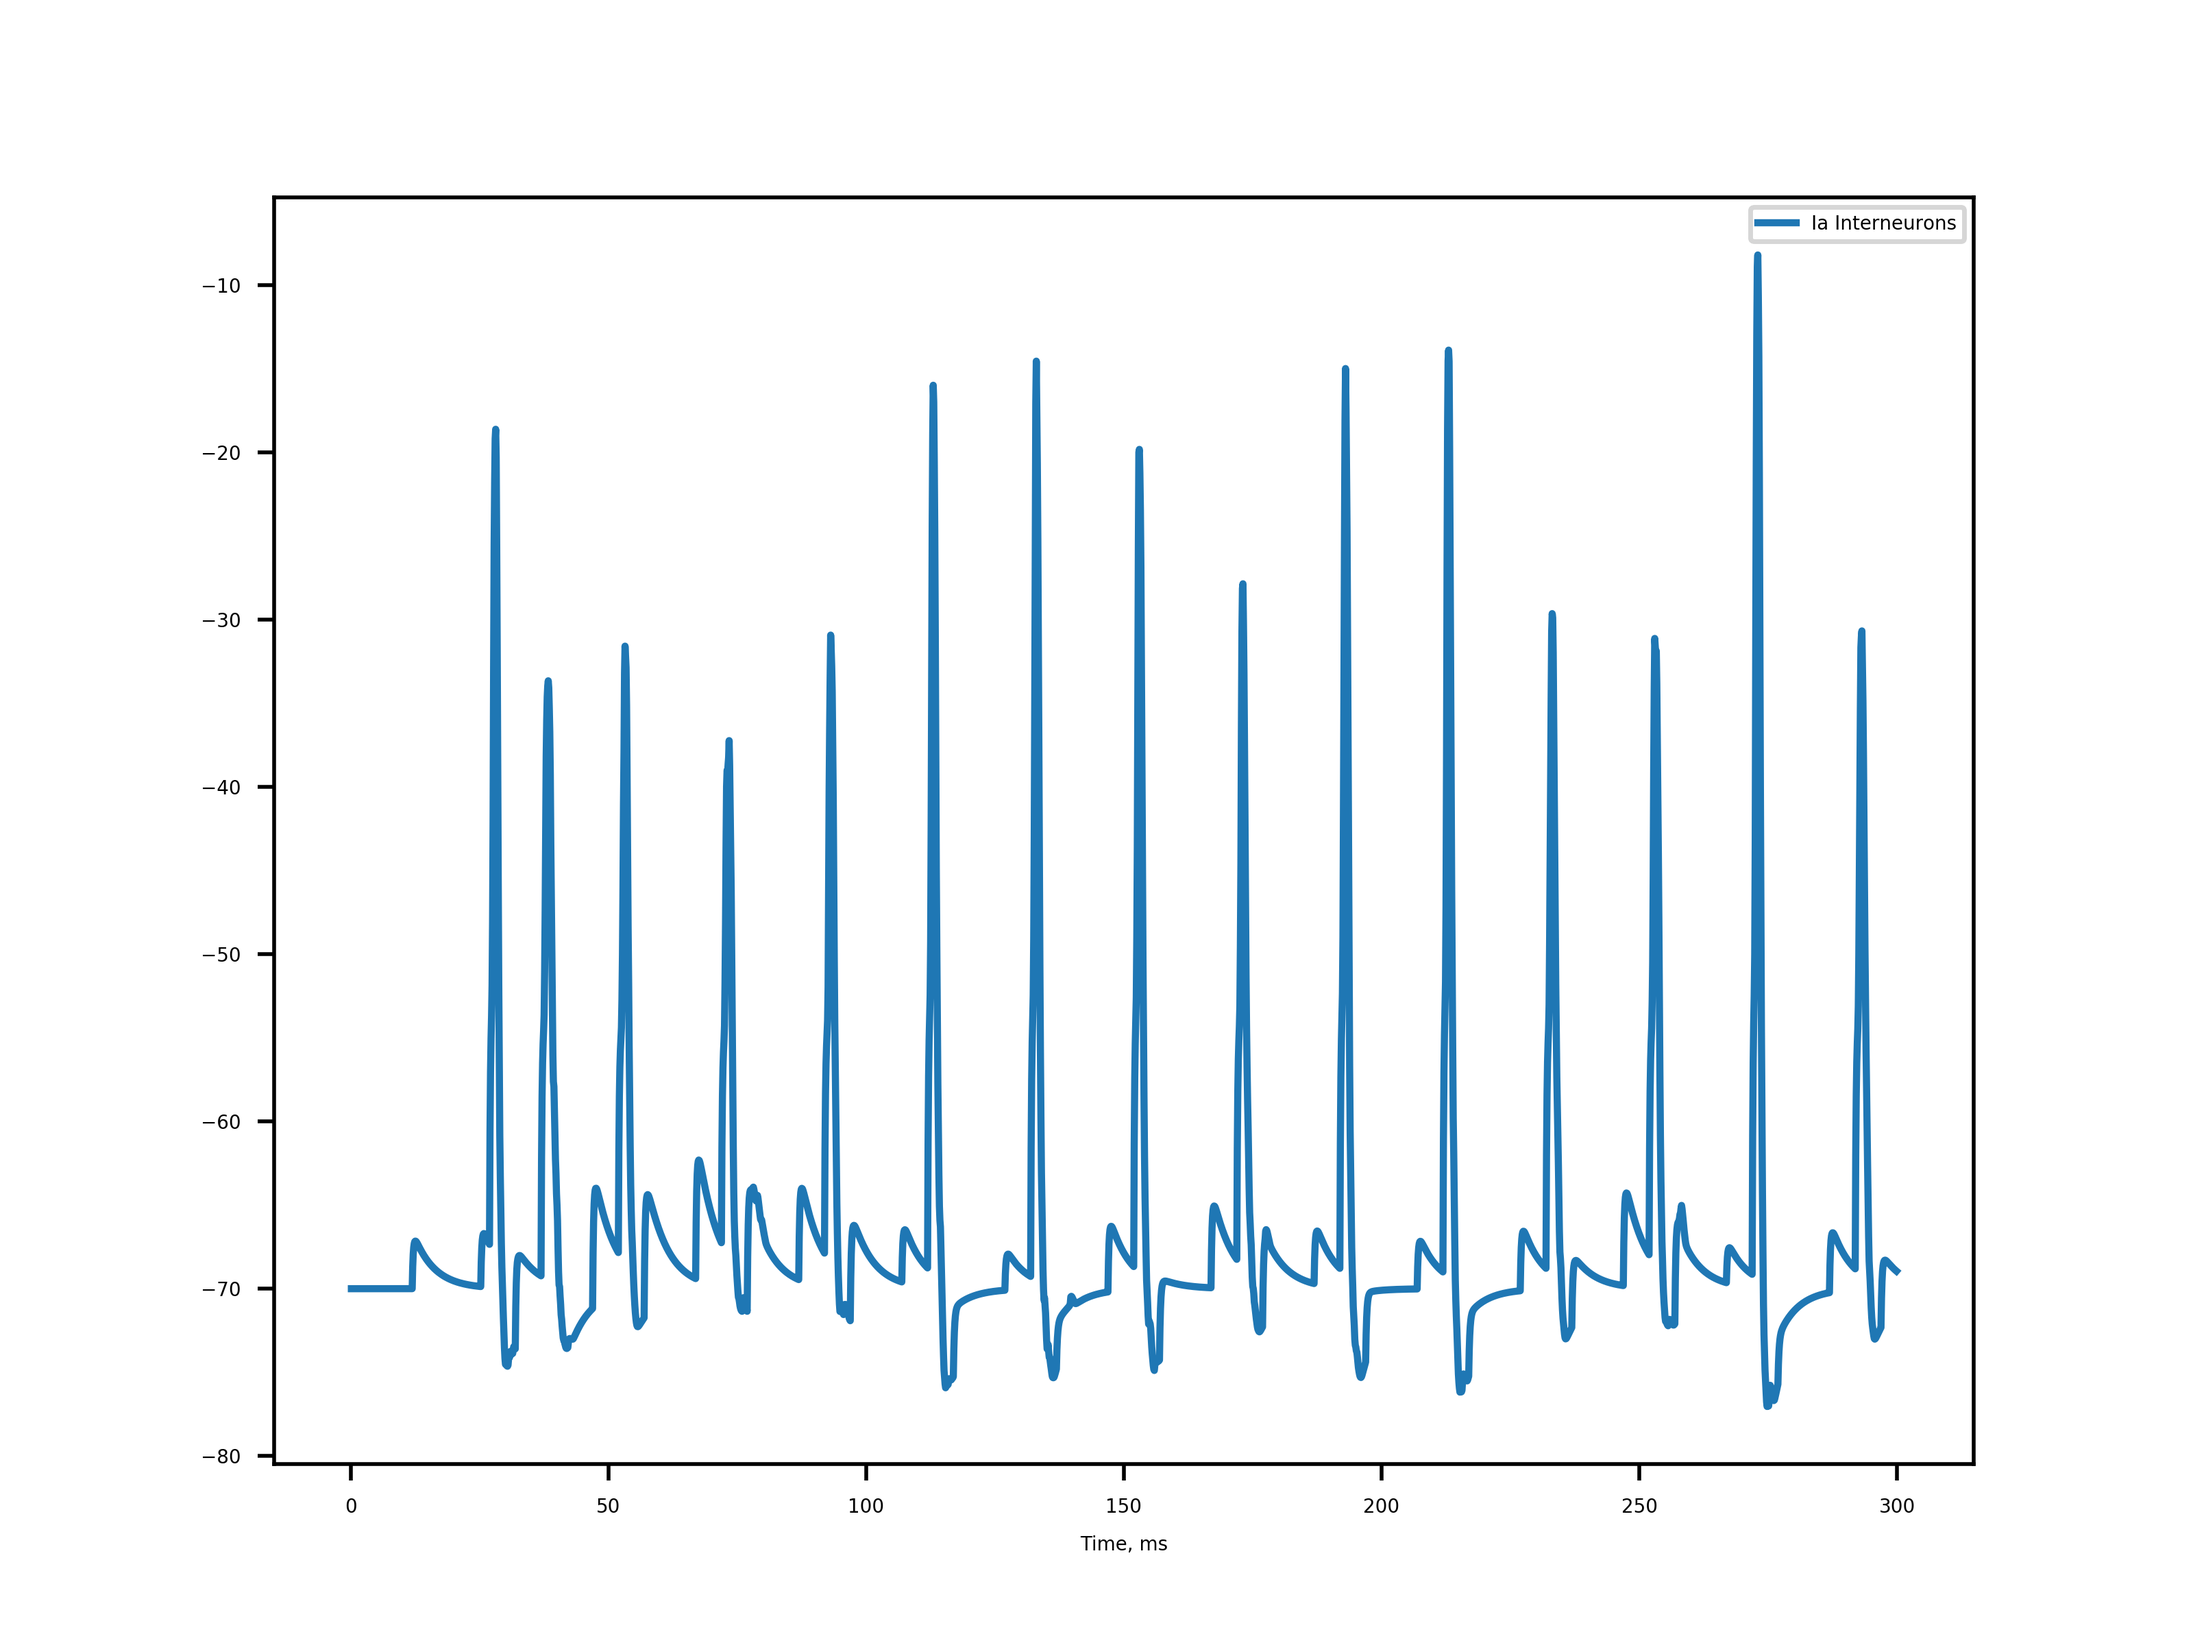
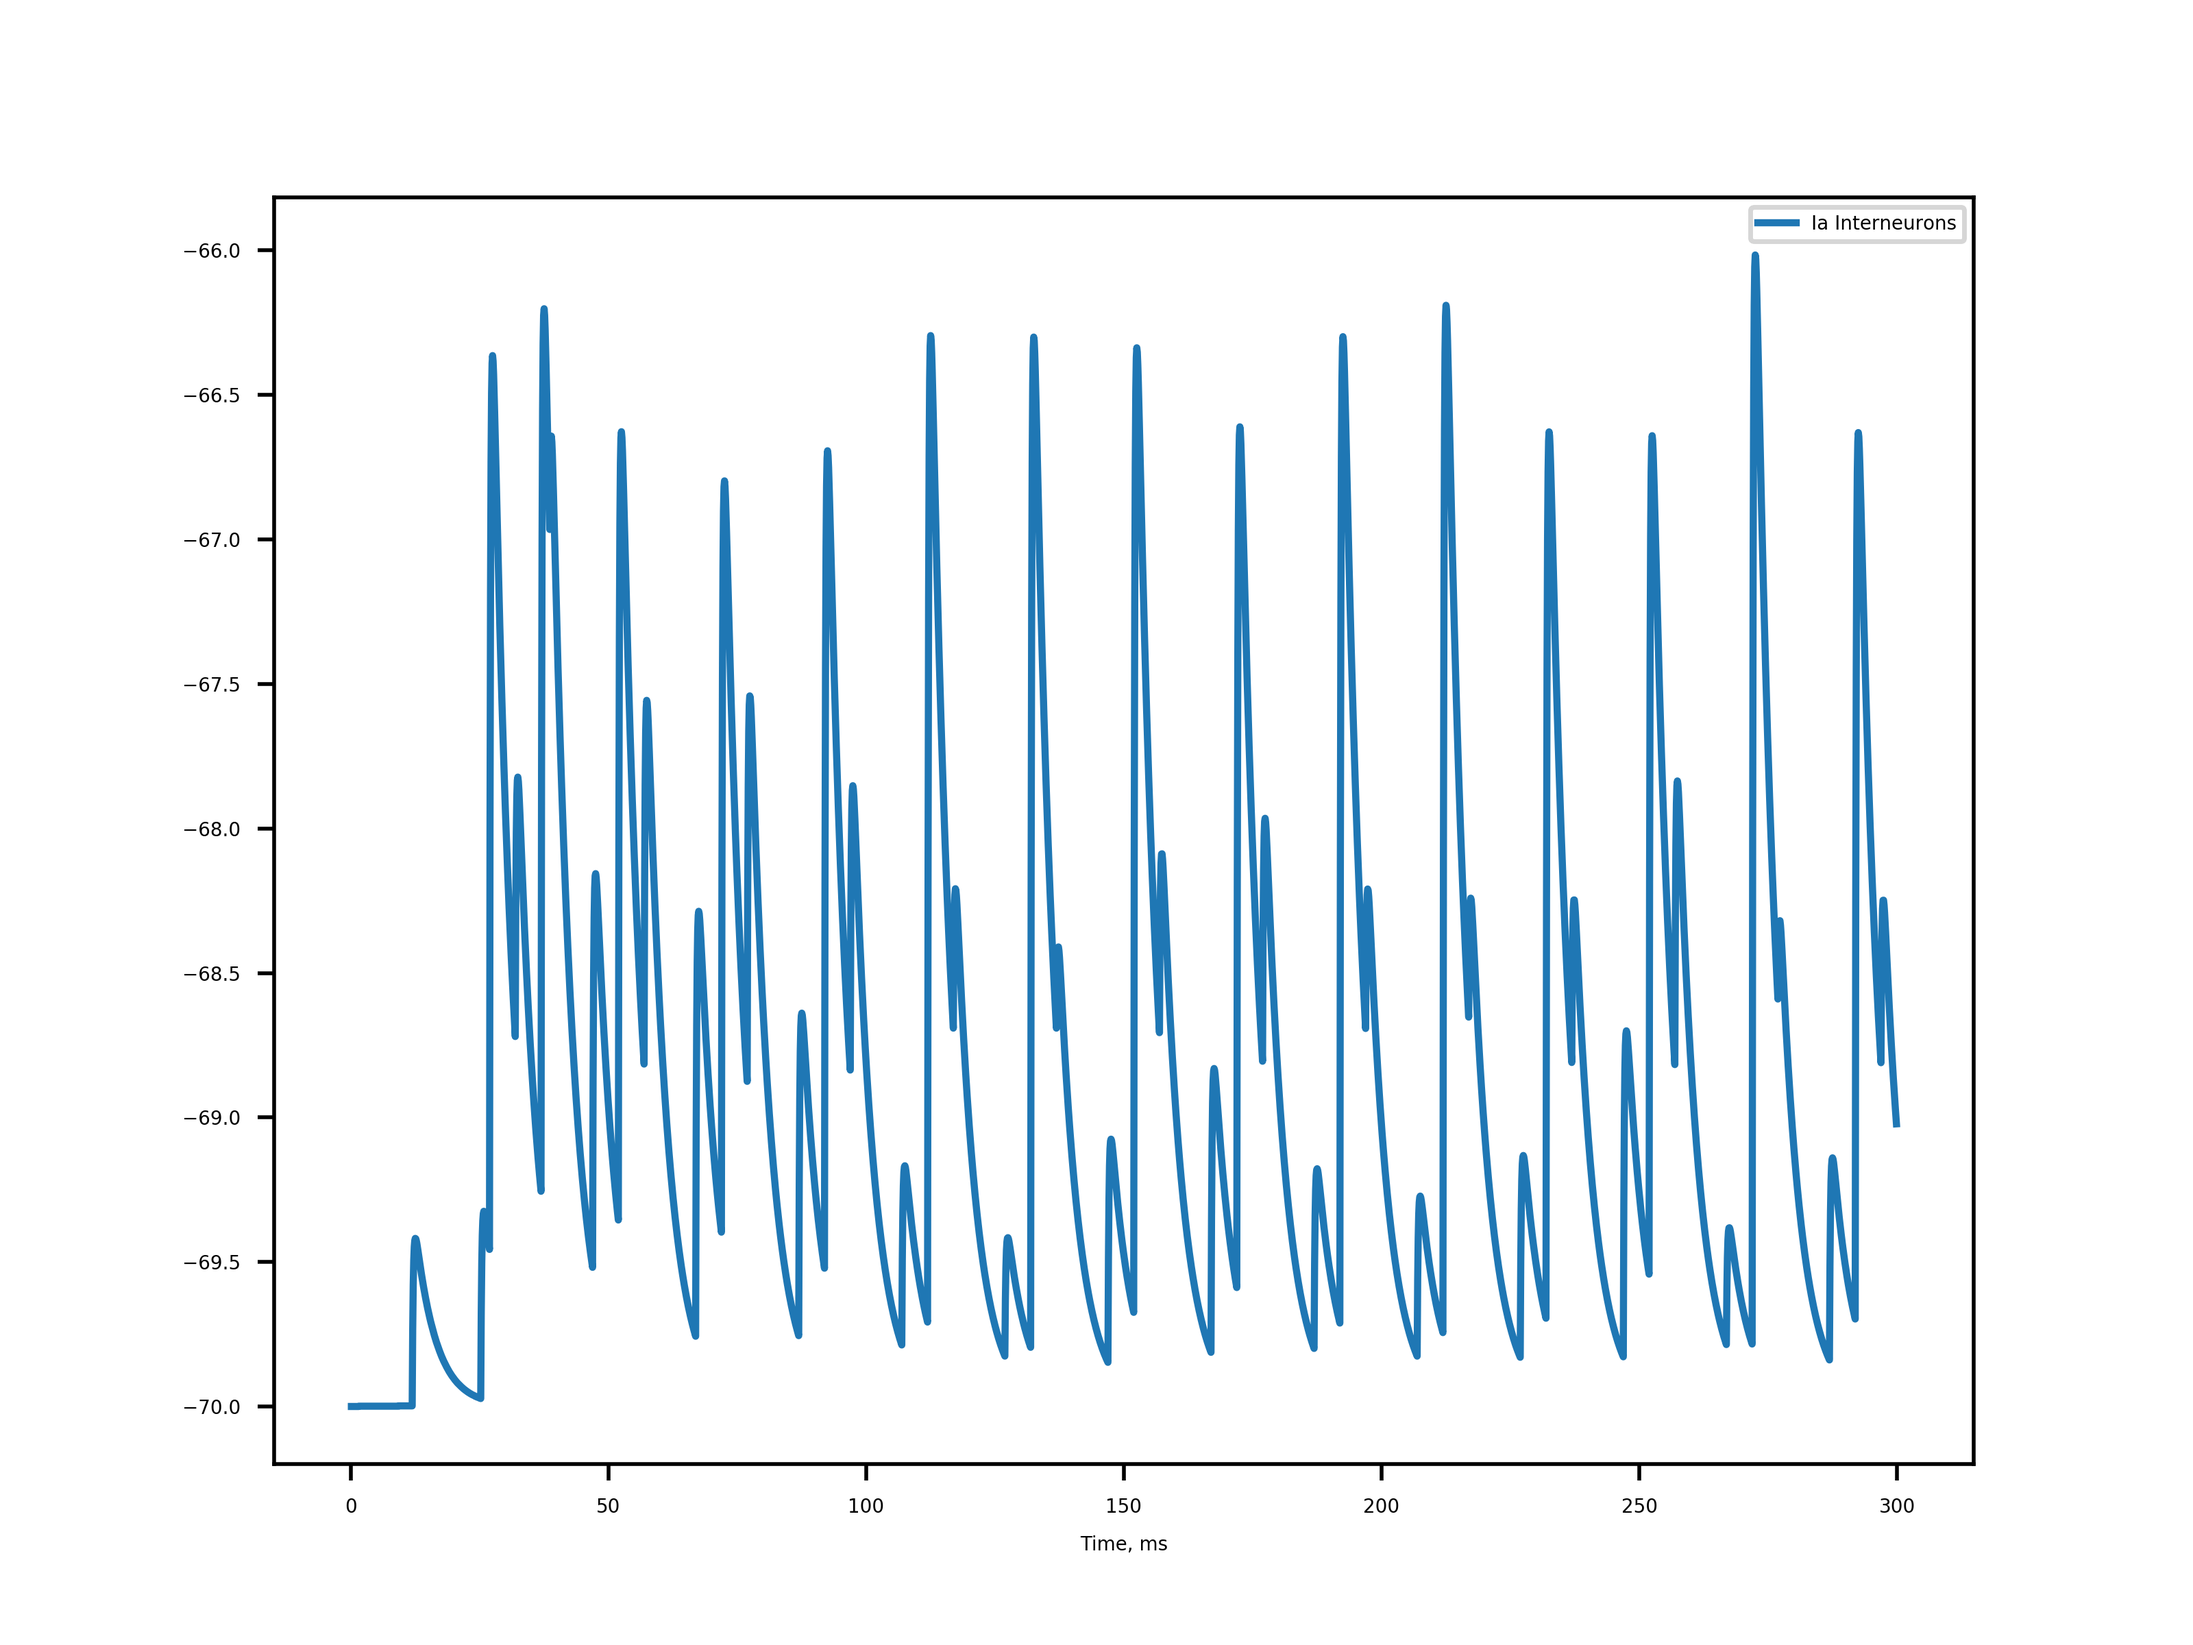
update rybak_aff scheme

diff --git a/rybak_affs/src/topology.py b/rybak_affs/src/topology.py
@@ -32,6 +32,40 @@ def connect(pre, post, weight, degree):
             'autapses': True
         })
 
+class Sublayer:
+    def __init__(self, index: int):
+        self.general_right = create(40)
+        self.general_left = create(40)
+        self.hidden_right = create(40)
+        self.hidden_left = create(40)
+        self.inh = create(40)
+
+        connect(pre=self.general_right, post=self.general_left, weight=50., degree=10)
+        connect(pre=self.hidden_right, post=self.hidden_left, weight=50., degree=10)
+        connect(pre=self.hidden_left, post=self.hidden_right, weight=50., degree=10)
+
+        connect(pre=self.general_right, post=self.hidden_right, weight=50., degree=10)
+        connect(pre=self.hidden_left, post=self.inh, weight=50., degree=10)
+        connect(pre=self.inh, post=self.general_left, weight=-50., degree=10)
+
+class Level2:
+    def __init__(self):
+        self.sublayers = [Sublayer(i) for i in range(6)]
+        for i in range(5):
+            connect(
+                pre=self.sublayers[i].general_right,
+                post=self.sublayers[i+1].general_right,
+                weight=10., degree=10)
+            connect(
+                pre=self.sublayers[i].hidden_right,
+                post=self.sublayers[i+1].general_right,
+                weight=15., degree=10)
+            connect(
+                pre=self.sublayers[i].general_left,
+                post=self.sublayers[i+1].general_left,
+                weight=50., degree=10)
+ 
+
 ia_aff = AfferentFiber(muscle=Muscle.EXTENS, afferent=Afferent.IA)
 moto = create(n=169)
 Connect(pre=add_multimeter('moto'), post=moto)
@@ -39,9 +73,11 @@ ia_int = create(n=196)
 Connect(pre=add_multimeter('ia_int'), post=ia_int)
 rc = create(196)
 Connect(add_multimeter('rc'), post=rc)
+level2 = Level2()
 
+connect(ia_aff.neuron_ids, level2.sublayers[0].general_right, 30., 20)
 connect(ia_aff.neuron_ids, moto, 5., 196)
-connect(ia_aff.neuron_ids, ia_int, 12., 100)
+connect(ia_aff.neuron_ids, ia_int, 12., 20)
 connect(moto, rc, 7., 100)
 connect(rc, moto, -7., 100)
 connect(ia_int, moto, -7., 100)

diff --git a/rybak_affs/bin/run.py b/rybak_affs/bin/run.py
@@ -25,8 +25,10 @@ Plotter.save_voltage('ia_aff')
 Plotter.plot_voltage('moto', 'Moto')
 Plotter.save_voltage('moto')
 
-Plotter.plot_voltage('rc', 'Moto')
+Plotter.plot_voltage('rc', 'RC')
 Plotter.save_voltage('rc')
 
 Plotter.plot_voltage('ia_int', 'Ia Interneurons')
 Plotter.save_voltage('ia_int')
+
+Plotter.plot_slices(num_slices=7, name='moto')

diff --git a/rybak_affs/src/tools/plotter.py b/rybak_affs/src/tools/plotter.py
@@ -40,7 +40,7 @@ class Plotter:
     def plot_slices(num_slices: int=7, name: str='moto'):
         period = 1000 / rate
         step = .1
-        shift = 10
+        shift = 25
         interval = period
         data = Miner.gather_voltage(name)
         num_dots = int(1 / step * num_slices * interval)
